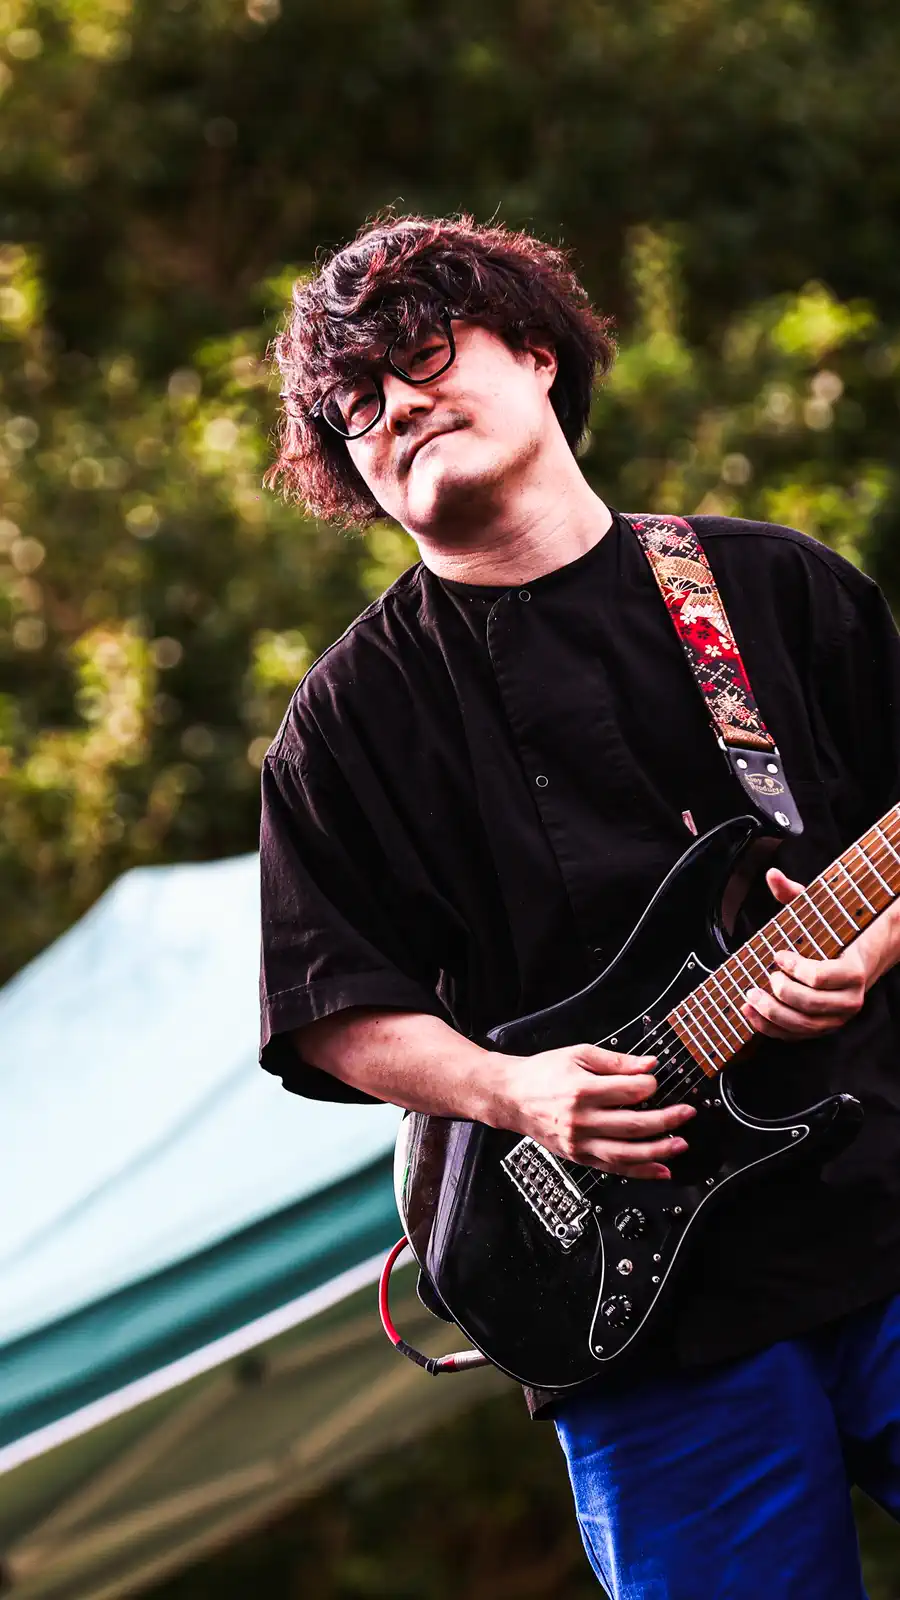
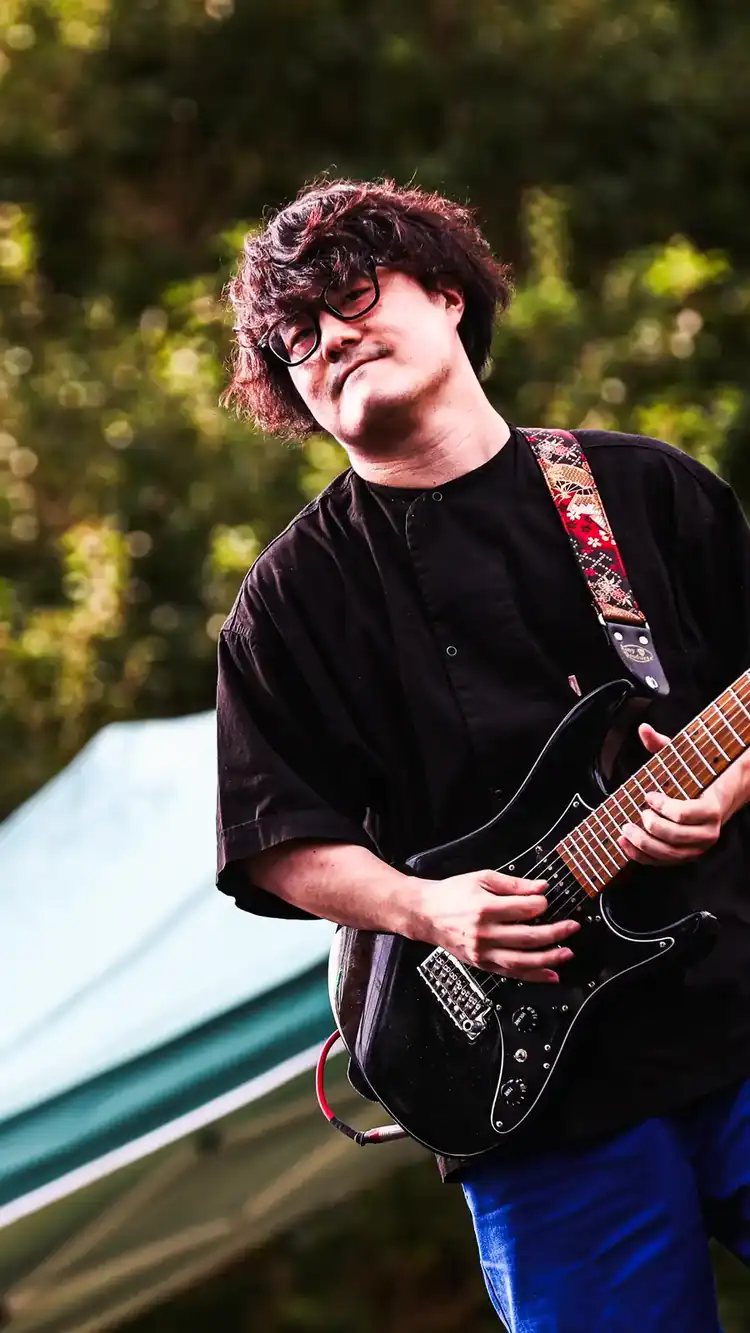
HOME：スライド写真を軽量化（合計1.45MB→0.98MB）

diff --git a/index.html b/index.html
@@ -14,16 +14,16 @@
 <meta content="light" name="color-scheme"/>
 <link data-v5-font="" href="fonts/fonts.css?v=5v" rel="stylesheet"/><link data-v5-font="" href="assets/site-font.css?v=5v" rel="stylesheet"/><link data-v5-source="site-2d8504f6a557.css" href="assets/site-2d8504f6a557.css?v=5v" rel="stylesheet"/><link data-v5="" href="assets/v5.css?v=5v" rel="stylesheet"/></head><body class="home layout-index"><div aria-hidden="true" class="ambient"><i></i><i></i><svg preserveaspectratio="none" viewbox="0 0 1400 900"><path d="M-100 640 Q300 200 700 600 T1500 300"></path><path d="M-100 670 Q300 230 700 630 T1500 330"></path><path d="M-100 700 Q300 260 700 660 T1500 360"></path></svg></div><a class="skip-link" href="#main">本文へ</a><header id="hdr"><div class="nav"><a class="mk" href="index.html"><b>くめゆう<span class="name-red">す</span>け</b><i>Yusuke Kume — Guitarist &amp; Composer</i></a><button aria-controls="site-menu" aria-expanded="false" class="menu-toggle" type="button">MENU <span aria-hidden="true">＋</span></button><nav aria-label="メインメニュー" id="site-menu"><a class="lnk" href="index.html">HOME</a><a class="lnk" href="about.html">ABOUT</a><a class="lnk" href="band.html">BAND</a><a class="lnk" href="listen.html">LISTEN</a><a class="lnk" href="subscribe.html">SUBSCRIBE</a><a class="lnk" href="live.html">LIVE</a><a class="lnk" href="news.html">NEWS</a><a class="lnk" href="request.html">REQUEST</a><a class="lnk" href="request.html#contact">CONTACT</a></nav></div></header><main id="main"><section class="hero" data-media="v5" id="top">
 <div aria-hidden="true" class="hero-slides">
-<div class="hero-slide is-active"><picture><source media="(max-width: 600px)" srcset="assets/hero-01-mobile.webp"/><img alt="" fetchpriority="high" height="1068" src="assets/hero-01-desktop.webp" width="1600"/></picture></div>
-<div class="hero-slide"><picture><source data-srcset="assets/hero-02-mobile.webp" media="(max-width: 600px)"/><img alt="" data-src="assets/hero-02-desktop.webp" decoding="async" height="1068" width="1600"/></picture></div>
-<div class="hero-slide"><picture><source data-srcset="assets/hero-03-mobile.webp" media="(max-width: 600px)"/><img alt="" data-src="assets/hero-03-desktop.webp" decoding="async" height="1066" width="1600"/></picture></div>
-<div class="hero-slide"><picture><source data-srcset="assets/hero-04-mobile.webp" media="(max-width: 600px)"/><img alt="" data-src="assets/hero-04-desktop.webp" decoding="async" height="1066" width="1600"/></picture></div>
-<div class="hero-slide"><picture><source data-srcset="assets/hero-05-mobile.webp" media="(max-width: 600px)"/><img alt="" data-src="assets/hero-05-desktop.webp" decoding="async" height="1066" width="1600"/></picture></div>
-<div class="hero-slide"><picture><source data-srcset="assets/hero-06-mobile.webp" media="(max-width: 600px)"/><img alt="" data-src="assets/hero-06-desktop.webp" decoding="async" height="1066" width="1600"/></picture></div>
-<div class="hero-slide"><picture><source data-srcset="assets/hero-07-mobile.webp" media="(max-width: 600px)"/><img alt="" data-src="assets/hero-07-desktop.webp" decoding="async" height="1066" width="1600"/></picture></div>
-<div class="hero-slide"><picture><source data-srcset="assets/hero-08-mobile.webp" media="(max-width: 600px)"/><img alt="" data-src="assets/hero-08-desktop.webp" decoding="async" height="1066" width="1600"/></picture></div>
-<div class="hero-slide"><picture><source data-srcset="assets/hero-09-mobile.webp" media="(max-width: 600px)"/><img alt="" data-src="assets/hero-09-desktop.webp" decoding="async" height="1068" width="1600"/></picture></div>
-<div class="hero-slide"><picture><source data-srcset="assets/hero-10-mobile.webp" media="(max-width: 600px)"/><img alt="" data-src="assets/hero-10-desktop.webp" decoding="async" height="1066" width="1600"/></picture></div>
+<div class="hero-slide is-active"><picture><source media="(max-width: 600px)" srcset="assets/hero-01-mobile.webp"/><img alt="" fetchpriority="high" height="961" src="assets/hero-01-desktop.webp" width="1440"/></picture></div>
+<div class="hero-slide"><picture><source data-srcset="assets/hero-02-mobile.webp" media="(max-width: 600px)"/><img alt="" data-src="assets/hero-02-desktop.webp" decoding="async" height="961" width="1440"/></picture></div>
+<div class="hero-slide"><picture><source data-srcset="assets/hero-03-mobile.webp" media="(max-width: 600px)"/><img alt="" data-src="assets/hero-03-desktop.webp" decoding="async" height="959" width="1440"/></picture></div>
+<div class="hero-slide"><picture><source data-srcset="assets/hero-04-mobile.webp" media="(max-width: 600px)"/><img alt="" data-src="assets/hero-04-desktop.webp" decoding="async" height="959" width="1440"/></picture></div>
+<div class="hero-slide"><picture><source data-srcset="assets/hero-05-mobile.webp" media="(max-width: 600px)"/><img alt="" data-src="assets/hero-05-desktop.webp" decoding="async" height="959" width="1440"/></picture></div>
+<div class="hero-slide"><picture><source data-srcset="assets/hero-06-mobile.webp" media="(max-width: 600px)"/><img alt="" data-src="assets/hero-06-desktop.webp" decoding="async" height="959" width="1440"/></picture></div>
+<div class="hero-slide"><picture><source data-srcset="assets/hero-07-mobile.webp" media="(max-width: 600px)"/><img alt="" data-src="assets/hero-07-desktop.webp" decoding="async" height="959" width="1440"/></picture></div>
+<div class="hero-slide"><picture><source data-srcset="assets/hero-08-mobile.webp" media="(max-width: 600px)"/><img alt="" data-src="assets/hero-08-desktop.webp" decoding="async" height="959" width="1440"/></picture></div>
+<div class="hero-slide"><picture><source data-srcset="assets/hero-09-mobile.webp" media="(max-width: 600px)"/><img alt="" data-src="assets/hero-09-desktop.webp" decoding="async" height="961" width="1440"/></picture></div>
+<div class="hero-slide"><picture><source data-srcset="assets/hero-10-mobile.webp" media="(max-width: 600px)"/><img alt="" data-src="assets/hero-10-desktop.webp" decoding="async" height="959" width="1440"/></picture></div>
 </div>
 <div aria-hidden="true" class="hero-shade"></div>
 <div class="inner">
